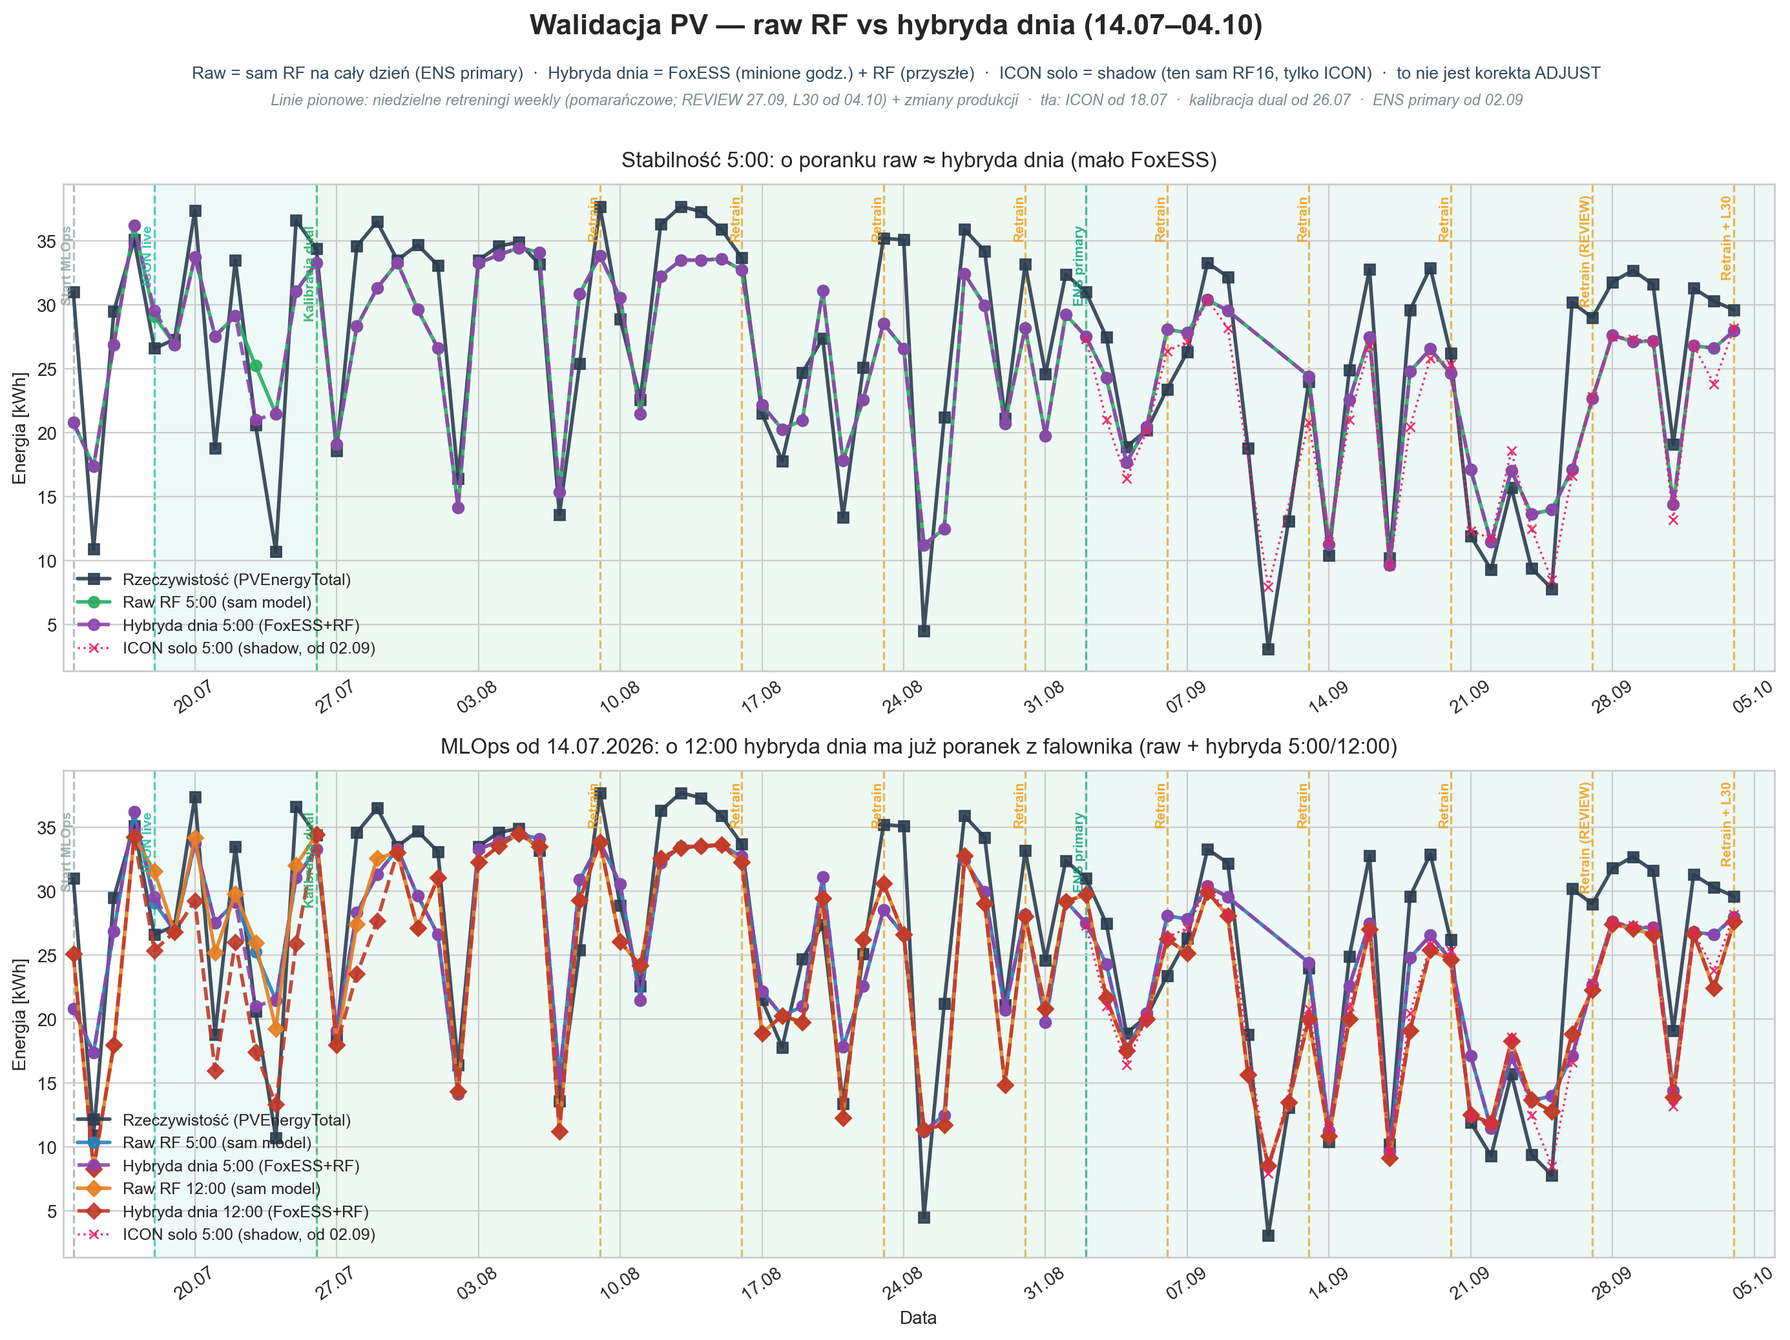
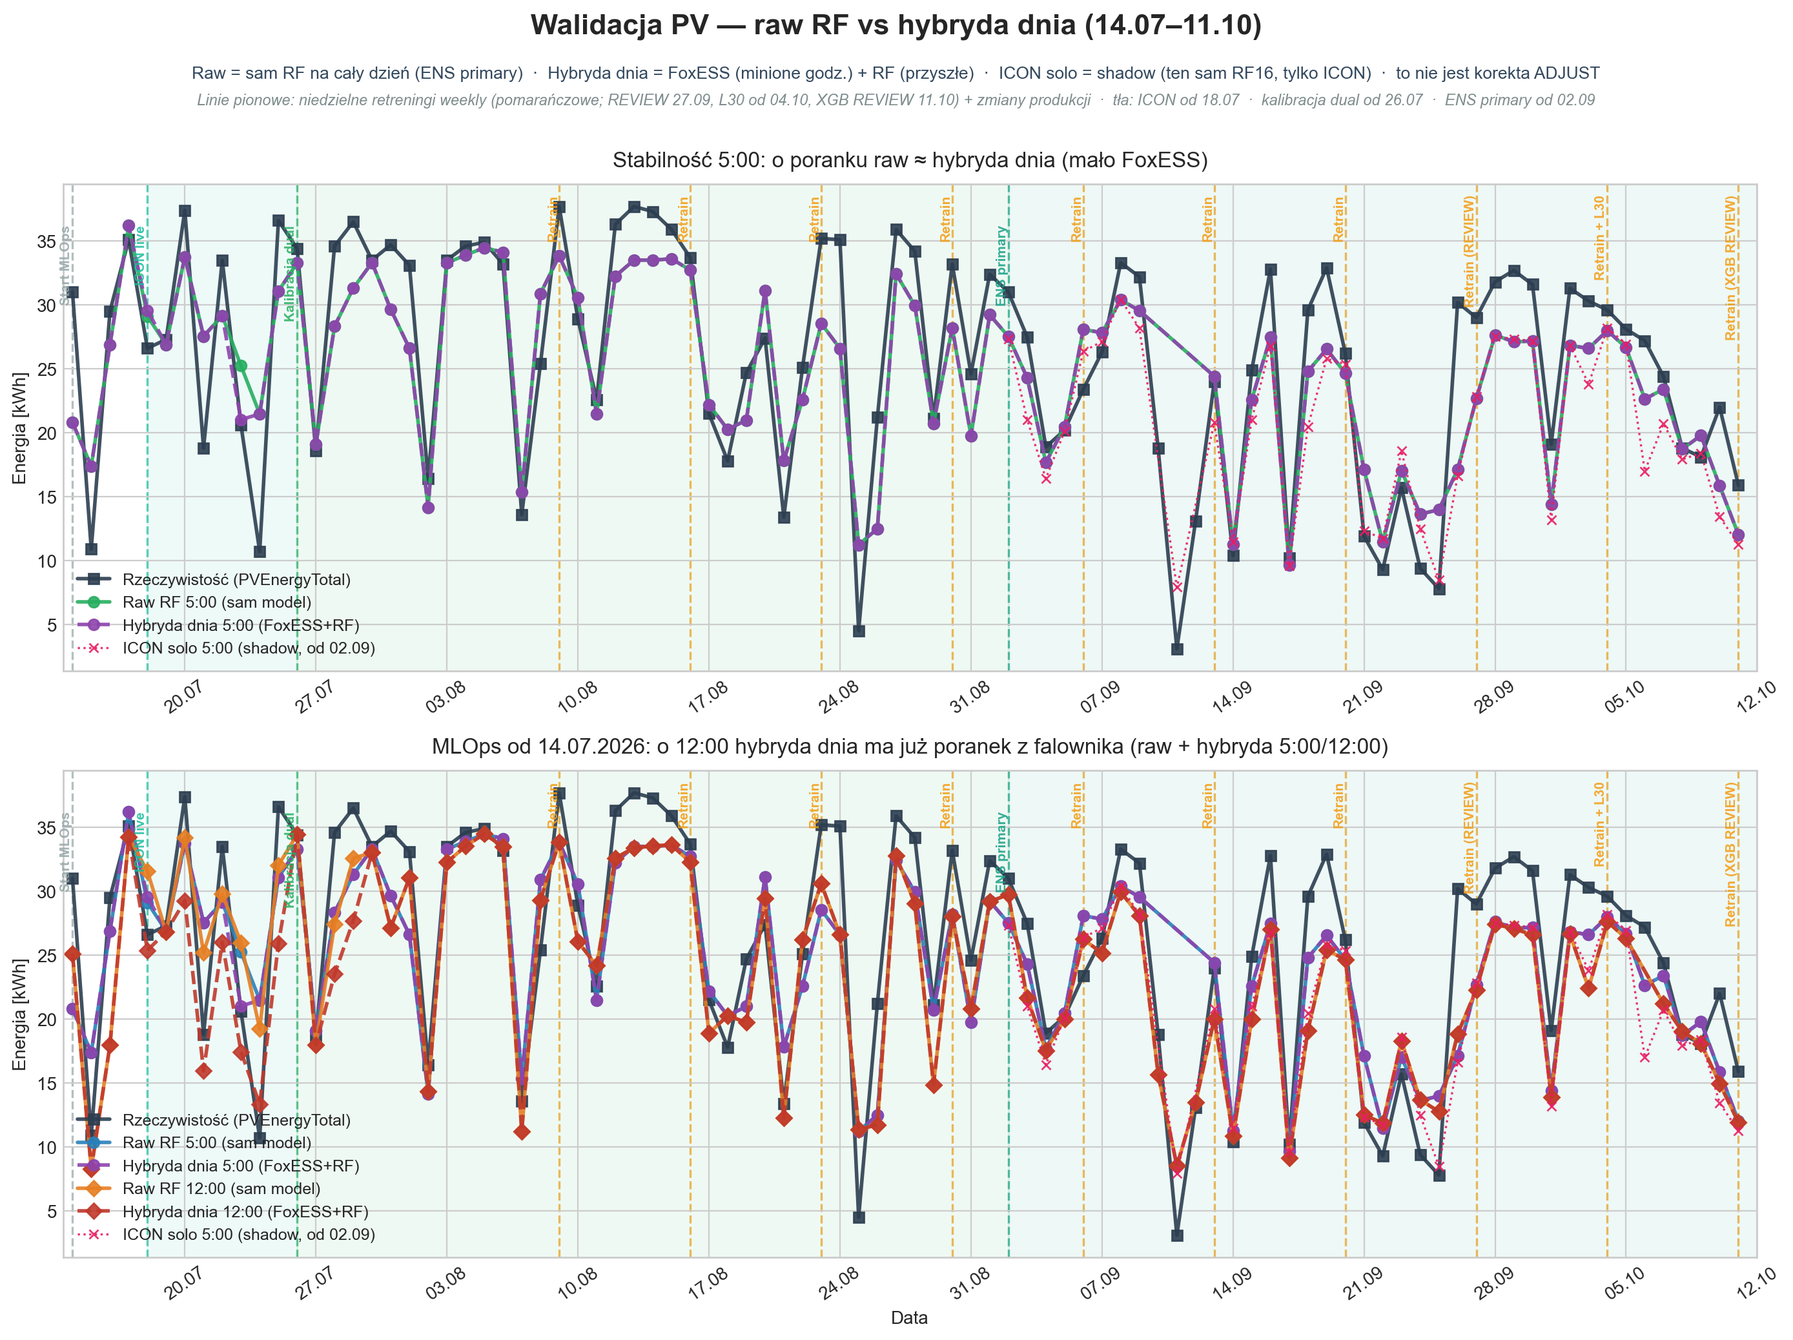
docs(ml): walidacja closeoutów do 11.10 + XGB REVIEW

diff --git a/scripts/plots/build_weekly_model_weather_review.py b/scripts/plots/build_weekly_model_weather_review.py
@@ -210,7 +210,7 @@ def build_markdown(m: pd.DataFrame, *, generated: date) -> str:
     lines = [
         '# Review modeli × pogoda (closeouty)',
         '',
-        f'**Wygenerowano:** {generated.isoformat()} (sobotni przegląd przed retreningiem niedzielnym)  ',
+        f'**Wygenerowano:** {generated.isoformat()} (przegląd modeli × pogoda)  ',
         f'**Zakres closeoutów:** {m["target_day"].min().date()} → {last_day.date()} (**{n_days}** dni)  ',
         '**Metryka:** |APE| % = |Fox − prognoza| / Fox × 100 · pogoda: średnie cloud **6–20** (ICON w DB)  ',
         '**Nie w tabeli:** UKMO solo / oneshot ½ — tylko w notatkach dnia (`oneshot_rf_icon_vs_ukmo.py`).  ',
@@ -301,10 +301,17 @@ def main() -> None:
 
         df = load_july_validation(Path(args.input))
         fig = ROOT / 'reports/figures/july_validation_plot.png'
-        summary = ROOT / 'docs/images/ml/july_validation_summary.md'
+        md = build_july_error_summary(df, db_path=Path(args.db))
         build_july_plot(df, fig)
-        summary.write_text(build_july_error_summary(df, db_path=Path(args.db)), encoding='utf-8')
-        print(f'✓ odświeżono {fig.name} + {summary.name}')
+        for summary in (
+            ROOT / 'docs/images/ml/july_validation_summary.md',
+            ROOT / 'reports/figures/july_validation_summary.md',
+        ):
+            summary.parent.mkdir(parents=True, exist_ok=True)
+            summary.write_text(md, encoding='utf-8')
+        docs_fig = ROOT / 'docs/images/ml/july_validation_plot.png'
+        docs_fig.write_bytes(fig.read_bytes())
+        print(f'✓ odświeżono {fig.name} + july_validation_summary.md (+ kopia docs/images/ml)')
 
 
 if __name__ == '__main__':

diff --git a/scripts/plots/plot_production_validation.py b/scripts/plots/plot_production_validation.py
@@ -61,6 +61,7 @@ MILESTONES = [
     {'date': '2026-09-20', 'label': 'Retrain', 'color': '#F39C12', 'type': 'retrain'},
     {'date': '2026-09-27', 'label': 'Retrain (REVIEW)', 'color': '#F39C12', 'type': 'retrain'},
     {'date': '2026-10-04', 'label': 'Retrain + L30', 'color': '#F39C12', 'type': 'retrain'},
+    {'date': '2026-10-11', 'label': 'Retrain (XGB REVIEW)', 'color': '#F39C12', 'type': 'retrain'},
 ]
 
 ENS_PRIMARY_START = '2026-09-02'
@@ -189,7 +190,7 @@ def build_plot(df: pd.DataFrame, output: Path, *, long_start: str) -> None:
     )
     fig.text(
         0.5, 0.935,
-        'Linie pionowe: niedzielne retreningi weekly (pomarańczowe; REVIEW 27.09, L30 od 04.10) + zmiany produkcji  ·  '
+        'Linie pionowe: niedzielne retreningi weekly (pomarańczowe; REVIEW 27.09, L30 od 04.10, XGB REVIEW 11.10) + zmiany produkcji  ·  '
         'tła: ICON od 18.07  ·  kalibracja dual od 26.07  ·  ENS primary od 02.09',
         ha='center', va='top', fontsize=8.5, color='#7F8C8D', style='italic',
     )

diff --git a/scripts/plots/plot_july_validation.py b/scripts/plots/plot_july_validation.py
@@ -633,7 +633,8 @@ def build_july_error_summary(
         '- **`production_validation_plot.png`:** góra = tylko **5:00** (raw ≈ hybryda, mało FoxESS). '
         'Dół = 5:00 i 12:00 razem. Tło od **02.09** = **ENS (ICON+UKMO)**. '
         'Pomarańczowe linie pionowe = niedzielny weekly retrening (04:30); od **27.09** opis „REVIEW” '
-        '(gate Δ MAE > +0,02), od **04.10** „+ L30” (dual report: shuffle + chronologiczny holdout 30 dni) — '
+        '(gate Δ MAE > +0,02), od **04.10** „+ L30” (dual report: shuffle + chronologiczny holdout 30 dni), '
+        '**11.10** „XGB REVIEW” (RF/CS4 ACCEPT) — '
         '`docs/NOTATKA_RETRENINGI_I_WDROZENIA.md`, `docs/NOTATKA_GATE_DUAL_L30.md`.'
     )
     lines.append(

diff --git a/docs/images/ml/july_validation_summary.md b/docs/images/ml/july_validation_summary.md
@@ -6,14 +6,14 @@ Metryka: **|APE| %** = `|actual − prognoza| / actual × 100`. Pogoda: średnie
 
 | Typ dnia (cloud) | n | MAPE raw 5:00 | MAPE raw 12:00 | Dni |
 |---|---:|---:|---:|---|
-| słoneczny / mało chmur | 19 | 8.7% | 9.6% | 20.07, 26.07, 30.07, 04.08, 05.08, 06.08, 09.08, 12.08, 13.08, 14.08, 15.08, 27.08, 08.09, 09.09, 28.09, 29.09, 30.09, 02.10, 03.10 |
-| mieszany | 25 | 14.1% | 15.8% | 16.07, 17.07, 25.07, 28.07, 29.07, 31.07, 03.08, 08.08, 16.08, 20.08, 22.08, 23.08, 24.08, 28.08, 29.08, 30.08, 01.09, 02.09, 06.09, 15.09, 16.09, 19.09, 26.09, 27.09, 04.10 |
-| pochmurny / deszczowy | 39 | 25.2% | 26.3% | 14.07, 15.07, 18.07, 19.07, 21.07, 22.07, 23.07, 24.07, 27.07, 01.08, 02.08, 07.08, 10.08, 11.08, 17.08, 18.08, 19.08, 21.08, 25.08, 26.08, 31.08, 03.09, 04.09, 05.09, 07.09, 10.09, 11.09, 12.09, 13.09, 14.09, 17.09, 18.09, 20.09, 21.09, 22.09, 23.09, 24.09, 25.09, 01.10 |
+| słoneczny / mało chmur | 20 | 8.5% | 9.4% | 20.07, 26.07, 30.07, 04.08, 05.08, 06.08, 09.08, 12.08, 13.08, 14.08, 15.08, 27.08, 08.09, 09.09, 28.09, 29.09, 30.09, 02.10, 03.10, 05.10 |
+| mieszany | 27 | 13.8% | 15.7% | 16.07, 17.07, 25.07, 28.07, 29.07, 31.07, 03.08, 08.08, 16.08, 20.08, 22.08, 23.08, 24.08, 28.08, 29.08, 30.08, 01.09, 02.09, 06.09, 15.09, 16.09, 19.09, 26.09, 27.09, 04.10, 06.10, 07.10 |
+| pochmurny / deszczowy | 43 | 24.3% | 25.2% | 14.07, 15.07, 18.07, 19.07, 21.07, 22.07, 23.07, 24.07, 27.07, 01.08, 02.08, 07.08, 10.08, 11.08, 17.08, 18.08, 19.08, 21.08, 25.08, 26.08, 31.08, 03.09, 04.09, 05.09, 07.09, 10.09, 11.09, 12.09, 13.09, 14.09, 17.09, 18.09, 20.09, 21.09, 22.09, 23.09, 24.09, 25.09, 01.10, 08.10, 09.10, 10.10, 11.10 |
 
-- **Najtrafniejszy raw 5:00:** 30.07 (0.6% · słoneczny / mało chmur, cloud~31%, actual 33.5 kWh), 03.08 (0.7% · mieszany, cloud~48%, actual 33.5 kWh), 05.08 (1.2% · słoneczny / mało chmur, cloud~9%, actual 34.9 kWh)
+- **Najtrafniejszy raw 5:00:** 08.10 (0.4% · pochmurny / deszczowy, cloud~77%, actual 18.8 kWh), 30.07 (0.6% · słoneczny / mało chmur, cloud~31%, actual 33.5 kWh), 03.08 (0.7% · mieszany, cloud~48%, actual 33.5 kWh)
 - **Najgorszy raw 5:00:** 25.08 (149.8% · pochmurny / deszczowy, cloud~100%, actual 4.5 kWh), 24.07 (100.7% · pochmurny / deszczowy, cloud~86%, actual 10.7 kWh), 25.09 (79.2% · pochmurny / deszczowy, cloud~89%, actual 7.8 kWh)
 - **Najgorszy raw 12:00:** 11.09 (174.8% · pochmurny / deszczowy, actual 3.1 kWh), 25.08 (152.7% · pochmurny / deszczowy, actual 4.5 kWh), 24.07 (79.7% · pochmurny / deszczowy, actual 10.7 kWh)
-- **Rekord |APE| (cała seria 14.07–04.10):** **11.09** raw 12:00 **174.8%** (Fox **3.1** kWh vs prognoza midday **8.5** kWh) — wyżej niż dotychczasowy outlier **25.08** (152,7% midday). Accu reżim **CS4** OK; miss = poziom kWh, nie klasyfikacja.
+- **Rekord |APE| (cała seria 14.07–11.10):** **11.09** raw 12:00 **174.8%** (Fox **3.1** kWh vs prognoza midday **8.5** kWh) — wyżej niż dotychczasowy outlier **25.08** (152,7% midday). Accu reżim **CS4** OK; miss = poziom kWh, nie klasyfikacja.
 
 - **Wzorzec:** na dniach **jasnych / wysokiej produkcji** raw bywa lekko **za niski** (NWP za chmurny vs Accu) — błąd umiarkowany w %, duży w kWh. Na dniach **słabych / burzowych** raw często **zawyża** — wtedy |APE| % eksploduje przy niskim Fox (**11.09** rekord **174,8%**; wcześniej klasa **25.08** ~153%). Od **02.09** primary to **ENS (ICON+UKMO)** — ten sam RF16, inna pogoda.
 
@@ -32,15 +32,16 @@ Raw 5:00 vs Fox, tygodnie pn–nd (od 03.08, min. 5 dni). **WAPE** = Σ|pred−F
 | 14.09–20.09 | 7 | 23.9 | 13.0% | -12.0% | -13.9% (n=5) | 19% | 17.2% (n=7) | -15.9% | **WATCH** · WAPE OK · bias WATCH · dzień OK |
 | 21.09–27.09 | 7 | 16.2 | 34.0% | -0.3% | -32.8% (n=2) | 79% | 25.8% (n=7) | -9.0% | **ALARM** · WAPE ALARM · bias OK · dzień ALARM |
 | 28.09–04.10 | 7 | 29.5 | 13.9% | -13.9% | -12.8% (n=6) | 25% | 15.6% (n=7) | -15.6% | **ALARM** · WAPE OK · bias ALARM · dzień OK |
+| 05.10–11.10 | 7 | 22.1 | 12.1% | -10.0% | -12.9% (n=4) | 28% | 19.1% (n=7) | -18.7% | **WATCH** · WAPE OK · bias WATCH · dzień WATCH |
 
 #### ENS vs dual ICON — korekta o miks pogody
 
-Era ENS ma więcej dni pochmurnych (**55%** vs **35%** w erze dual), a na pochmurnych |APE| % jest zawyżone przez niski Fox — dlatego porównuj **te same typy dni** (różnica MAPE raw 5:00, ENS − dual): słoneczny / mało chmur: wyższy o 6.0 pp w erze ENS; mieszany: wyższy o 5.6 pp w erze ENS; pochmurny / deszczowy: niższy o 6.6 pp w erze ENS. Mała próba (n w komórkach) — to obserwacja, nie wniosek.
+Era ENS ma więcej dni pochmurnych (**55%** vs **35%** w erze dual), a na pochmurnych |APE| % jest zawyżone przez niski Fox — dlatego porównuj **te same typy dni** (różnica MAPE raw 5:00, ENS − dual): słoneczny / mało chmur: wyższy o 5.1 pp w erze ENS; mieszany: wyższy o 4.0 pp w erze ENS; pochmurny / deszczowy: niższy o 7.4 pp w erze ENS. Mała próba (n w komórkach) — to obserwacja, nie wniosek.
 
 | Era | słoneczny / mało chmur (n · MAPE 5:00) | mieszany (n · MAPE 5:00) | pochmurny / deszczowy (n · MAPE 5:00) | udział dni pochmurnych |
 |---|---:|---:|---:|---:|
 | dual ICON 27.07–01.09 | 10 · 6.5% | 14 · 12.7% | 13 · 25.8% | 35% |
-| ENS od 02.09 | 7 · 12.5% | 8 · 18.3% | 18 · 19.1% | 55% |
+| ENS od 02.09 | 8 · 11.6% | 10 · 16.7% | 22 · 18.4% | 55% |
 
 #### Kiedy hybryda dnia pomaga, a kiedy szkodzi
 
@@ -48,7 +49,7 @@ Porównanie **midday (12:00)**: hybryda = FoxESS na minione godziny + RF na resz
 
 - **Hybryda pomaga (12:00):** 18.07 (↓14.1 pp, pochmurny / deszczowy); 21.07 (↓18.9 pp, pochmurny / deszczowy); 23.07 (↓10.8 pp, pochmurny / deszczowy); 24.07 (↓55.0 pp, pochmurny / deszczowy)
 - **Hybryda szkodzi (12:00):** 20.07 (↑13.2 pp, słoneczny / mało chmur); 22.07 (↑11.2 pp, pochmurny / deszczowy); 25.07 (↑16.7 pp, mieszany); 28.07 (↑11.3 pp, mieszany); 29.07 (↑13.4 pp, mieszany)
-- **Remis / szum (<1 pp):** 14.07, 15.07, 16.07, 17.07, 19.07, 26.07, 27.07, 30.07, 31.07, 01.08, 02.08, 03.08, 04.08, 05.08, 06.08, 07.08, 08.08, 09.08, 10.08, 11.08, 12.08, 13.08, 14.08, 15.08, 16.08, 17.08, 18.08, 19.08, 20.08, 21.08, 22.08, 23.08, 24.08, 25.08, 26.08, 27.08, 28.08, 29.08, 30.08, 31.08, 01.09, 02.09, 03.09, 04.09, 05.09, 06.09, 07.09, 08.09, 09.09, 10.09, 11.09, 12.09, 13.09, 14.09, 15.09, 16.09, 17.09, 18.09, 19.09, 20.09, 21.09, 22.09, 23.09, 24.09, 25.09, 26.09, 27.09, 28.09, 29.09, 30.09, 01.10, 02.10, 03.10, 04.10
+- **Remis / szum (<1 pp):** 14.07, 15.07, 16.07, 17.07, 19.07, 26.07, 27.07, 30.07, 31.07, 01.08, 02.08, 03.08, 04.08, 05.08, 06.08, 07.08, 08.08, 09.08, 10.08, 11.08, 12.08, 13.08, 14.08, 15.08, 16.08, 17.08, 18.08, 19.08, 20.08, 21.08, 22.08, 23.08, 24.08, 25.08, 26.08, 27.08, 28.08, 29.08, 30.08, 31.08, 01.09, 02.09, 03.09, 04.09, 05.09, 06.09, 07.09, 08.09, 09.09, 10.09, 11.09, 12.09, 13.09, 14.09, 15.09, 16.09, 17.09, 18.09, 19.09, 20.09, 21.09, 22.09, 23.09, 24.09, 25.09, 26.09, 27.09, 28.09, 29.09, 30.09, 01.10, 02.10, 03.10, 04.10, 05.10, 07.10, 08.10, 09.10, 10.10, 11.10
 
 - **O 5:00:** hybryda ≈ raw (pomaga 1 dni / szkodzi 1) — przed wschodem prawie nie ma FoxESS do podmiany.
 
@@ -67,21 +68,21 @@ Podział według **zmian logiki / targetu / cech** (nie każdy niedzielny odświ
 | 14.07–18.07 | przed targetem PVE (skala mieszana; GPS/ICON 17.07) | 5 | 22.8% | 20.6% |
 | 19.07–26.07 | po PVE 18.07 ~16:32 — przed dual 26.07 | 8 | 26.5% | 21.7% |
 | 27.07–01.09 | era dual ICON primary (po 26.07; weekly = odświeżenie wag) | 37 | 15.6% | 15.8% |
-| 02.09–04.10 | era ENS primary (ICON+UKMO; gate 01.09, daily od 02.09) | 33 | 17.4% | 22.4% |
-| 19.07–04.10 | **era PVE łącznie** (bez 14–18) | 78 | **17.5%** | **19.2%** |
+| 02.09–11.10 | era ENS primary (ICON+UKMO; gate 01.09, daily od 02.09) | 40 | 16.5% | 21.0% |
+| 19.07–11.10 | **era PVE łącznie** (bez 14–18) | 85 | **17.1%** | **18.8%** |
 
-_Zakres całość: 14.07–04.10 (83 closeoutów) · MAPE raw 5:00 = **17.8%** · MAPE raw 12:00 = **19.3%**._
+_Zakres całość: 14.07–11.10 (90 closeoutów) · MAPE raw 5:00 = **17.4%** · MAPE raw 12:00 = **18.9%**._
 
-#### Notatka odświeżenia 05.10.2026
+#### Notatka odświeżenia 11.10.2026
 
-- Zakres closeoutów: **14.07–04.10** (n=83). PNG + ten plik wygenerowane **05.10**.
+- Zakres closeoutów: **14.07–11.10** (n=90). PNG + ten plik wygenerowane **11.10**.
 - Linie na wykresie: **ICON** od **18.07** (wdrożenie 17.07 wieczór) · **kalibracja dual** od **26.07** · **ENS primary** od **02.09**.
-- **ENS primary** od **02.09** (gate 01.09, pierwszy daily 5:00) — n=33 closeoutów · MAPE raw **17.4% / 22.4%**.
+- **ENS primary** od **02.09** (gate 01.09, pierwszy daily 5:00) — n=40 closeoutów · MAPE raw **16.5% / 21.0%**.
 - Era dual ICON **27.07–01.09** (n=37): MAPE raw **15.6% / 15.8%**.
-- Ostatnie closeouty (actual · |APE| raw 5:00): 27.09 **29.0** (raw 5:00 21.9%), 28.09 **31.8** (raw 5:00 13.1%), 29.09 **32.7** (raw 5:00 17.1%), 30.09 **31.6** (raw 5:00 14.0%), 01.10 **19.1** (raw 5:00 24.6%), 02.10 **31.3** (raw 5:00 14.3%), 03.10 **30.3** (raw 5:00 12.2%), 04.10 **29.6** (raw 5:00 5.4%).
+- Ostatnie closeouty (actual · |APE| raw 5:00): 04.10 **29.6** (raw 5:00 5.4%), 05.10 **28.1** (raw 5:00 5.1%), 06.10 **27.2** (raw 5:00 16.8%), 07.10 **24.4** (raw 5:00 4.1%), 08.10 **18.8** (raw 5:00 0.4%), 09.10 **18.1** (raw 5:00 9.3%), 10.10 **22.0** (raw 5:00 28.0%), 11.10 **15.9** (raw 5:00 24.3%).
 
 #### Jak czytać PNG
 
 - **`july_validation_plot.png`:** góra = kWh dnia (czarne = FoxESS; niebieski = raw 5:00; pomarańczowy = raw 12:00; fiolet/czerwień = hybryda). Dół = **|APE| %** — wysoki słupek to dzień, w którym model był daleko od faktu (zwykle słaby / deszczowy).
-- **`production_validation_plot.png`:** góra = tylko **5:00** (raw ≈ hybryda, mało FoxESS). Dół = 5:00 i 12:00 razem. Tło od **02.09** = **ENS (ICON+UKMO)**. Pomarańczowe linie pionowe = niedzielny weekly retrening (04:30); od **27.09** opis „REVIEW” (gate Δ MAE > +0,02), od **04.10** „+ L30” (dual report: shuffle + chronologiczny holdout 30 dni) — `docs/NOTATKA_RETRENINGI_I_WDROZENIA.md`, `docs/NOTATKA_GATE_DUAL_L30.md`.
+- **`production_validation_plot.png`:** góra = tylko **5:00** (raw ≈ hybryda, mało FoxESS). Dół = 5:00 i 12:00 razem. Tło od **02.09** = **ENS (ICON+UKMO)**. Pomarańczowe linie pionowe = niedzielny weekly retrening (04:30); od **27.09** opis „REVIEW” (gate Δ MAE > +0,02), od **04.10** „+ L30” (dual report: shuffle + chronologiczny holdout 30 dni), **11.10** „XGB REVIEW” (RF/CS4 ACCEPT) — `docs/NOTATKA_RETRENINGI_I_WDROZENIA.md`, `docs/NOTATKA_GATE_DUAL_L30.md`.
 - Dni **bez Porannej @05** (launchd / Mac spał) nie mają niebieskiej kropki 5:00 — oceniaj po **pomarańczowej** (12:00) lub **Popołudniowej** w app. **|APE| %** na bardzo niskim Fox (2–5 kWh) bywa ogromny przy błędzie kilku kWh — **11.09** to **najwyższy słupek |APE| w całej serii** (**174,8%** raw 12:00; wcześniejszy rekord **25.08** ~153%). Kontrast **12.09**: Fox **13,1** vs midday **13,47** (**−2,8%**).

diff --git a/docs/images/ml/weekly_model_weather_review.md b/docs/images/ml/weekly_model_weather_review.md
@@ -1,7 +1,7 @@
 # Review modeli × pogoda (closeouty)
 
-**Wygenerowano:** 2026-10-03 (sobotni przegląd przed retreningiem niedzielnym)  
-**Zakres closeoutów:** 2026-07-14 → 2026-10-02 (**81** dni)  
+**Wygenerowano:** 2026-10-11 (odświeżenie po closeoucie 11.10 i retrenie 04:30)  
+**Zakres closeoutów:** 2026-07-14 → 2026-10-11 (**90** dni)  
 **Metryka:** |APE| % = |Fox − prognoza| / Fox × 100 · pogoda: średnie cloud **6–20** (ICON w DB)  
 **Nie w tabeli:** UKMO solo / oneshot ½ — tylko w notatkach dnia (`oneshot_rf_icon_vs_ukmo.py`).  
 
@@ -9,46 +9,47 @@
 
 ---
 
-### Decyzja przed niedzielą (skrót)
+### Skrót (po retrenie 11.10)
 
-- **Pochmurne/deszczowe** (n=39): CS4 @05 **22.6%** vs ENS **25.2%** → rozważ routing / shadow CS4 (paper Accu).
-- **Słoneczne** (n=18): ENS @05 średnio **8.5%** — nie przełączaj na CS4 globalnie.
-- **Peak @16:** XGB **11.4%** vs ENS @12 **19.4%** — shadow XGB warto monitorować; retrening niedzielny i tak odświeża wszystkie trzy jobliby.
+- **Pochmurne/deszczowe** (n=43): CS4 @05 **21.7%** vs ENS **24.3%** → rozważ routing / shadow CS4 (paper Accu).
+- **Słoneczne** (n=20): ENS @05 średnio **8.5%** — nie przełączaj na CS4 globalnie.
+- **Retrain 11.10:** RF/CS4 **ACCEPT**, XGB **REVIEW** (Δ shuffle +0,027) — primary bez zmian.
+- **Peak @16:** XGB **10.8%** vs ENS @12 **18.9%** — shadow XGB warto monitorować; retrening niedzielny i tak odświeża wszystkie trzy jobliby.
 
 #### Cała seria (od lipca)
 
 | Typ dnia | n | ENS @05 | ENS @12 | ICON ld @05 | ICON ld @12 | CS4 ld @05 | CS4 ld @12 | CS4 peak | ICON peak | XGB @05 | XGB peak |
 |---|---:|---:|---:|---:|---:|---:|---:|---:|---:|---:|---:|
-| pochmurny / deszczowy | 39 | 25.2% | 26.3% | 23.7% | 24.6% | 22.6% | 25.2% | 14.4% | 15.2% | 23.2% | 13.8% |
-| mieszany | 24 | 14.4% | 16.1% | 20.9% | 20.1% | 16.5% | 17.4% | 9.2% | 5.8% | 16.8% | 9.9% |
-| słoneczny / mało chmur | 18 | 8.5% | 8.7% | 13.2% | 14.1% | 10.0% | 10.7% | 8.1% | 5.8% | 8.2% | 8.8% |
+| pochmurny / deszczowy | 43 | 24.3% | 25.2% | 22.7% | 23.7% | 21.7% | 24.3% | 13.2% | 13.0% | 22.8% | 12.5% |
+| mieszany | 27 | 13.8% | 15.7% | 20.4% | 18.1% | 16.8% | 17.0% | 9.1% | 6.3% | 17.5% | 9.7% |
+| słoneczny / mało chmur | 20 | 8.5% | 9.4% | 13.1% | 14.5% | 10.8% | 11.6% | 7.9% | 6.2% | 9.2% | 8.7% |
 
 #### Ostatnie 28 dni
 
 | Typ dnia | n | ENS @05 | ENS @12 | ICON ld @05 | ICON ld @12 | CS4 ld @05 | CS4 ld @12 | CS4 peak | ICON peak | XGB @05 | XGB peak |
 |---|---:|---:|---:|---:|---:|---:|---:|---:|---:|---:|---:|
-| pochmurny / deszczowy | 16 | 20.7% | 28.6% | 24.5% | 25.9% | 23.5% | 26.3% | 15.0% | 16.3% | 22.5% | 12.6% |
-| mieszany | 6 | 21.7% | 22.2% | 22.4% | 22.5% | 25.6% | 26.0% | 6.0% | 6.3% | 25.2% | 6.9% |
-| słoneczny / mało chmur | 6 | 12.6% | 14.1% | 13.2% | 14.1% | 14.0% | 15.4% | 5.4% | 5.8% | 13.8% | 7.1% |
+| pochmurny / deszczowy | 15 | 21.6% | 21.1% | 17.3% | 18.9% | 16.6% | 19.4% | 5.4% | 5.9% | 17.5% | 5.0% |
+| mieszany | 8 | 17.0% | 20.1% | 22.4% | 22.3% | 24.2% | 25.5% | 6.9% | 6.9% | 24.7% | 7.9% |
+| słoneczny / mało chmur | 6 | 12.6% | 15.7% | 13.9% | 15.4% | 15.9% | 17.7% | 6.2% | 6.7% | 15.6% | 7.8% |
 
 #### Ostatnie 7 dni
 
 | Typ dnia | n | ENS @05 | ENS @12 | ICON ld @05 | ICON ld @12 | CS4 ld @05 | CS4 ld @12 | CS4 peak | ICON peak | XGB @05 | XGB peak |
 |---|---:|---:|---:|---:|---:|---:|---:|---:|---:|---:|---:|
-| mieszany | 2 | 32.6% | 30.4% | 33.1% | 35.3% | 34.5% | 38.1% | 5.7% | 5.9% | 39.2% | 6.4% |
-| słoneczny / mało chmur | 4 | 14.6% | 15.4% | 14.5% | 15.2% | 15.6% | 17.2% | 5.8% | 6.4% | 14.8% | 7.6% |
-| pochmurny / deszczowy | 1 | 24.6% | 27.2% | 30.9% | 30.4% | 37.3% | 35.2% | 2.7% | 3.9% | 44.0% | 4.8% |
+| mieszany | 3 | 8.8% | 9.9% | 19.1% | 10.9% | 18.9% | 12.3% | 8.0% | 7.5% | 22.1% | 9.0% |
+| słoneczny / mało chmur | 1 | 5.1% | 6.4% | 4.1% | 5.9% | 5.7% | 7.2% | 7.2% | 7.3% | 7.8% | 7.7% |
+| pochmurny / deszczowy | 4 | 15.5% | 14.5% | 18.6% | 19.5% | 14.8% | 17.2% | 3.6% | 3.0% | 19.9% | 2.7% |
 
 #### Najniższy |APE| @05 (porównanie daily snapshotów)
 
 | Wariant | dni (wygrał @05) |
 |---:|---:|
-| ENS @05 | 38 |
-| XGB @05 | 22 |
-| CS4 ld @05 | 15 |
-| ICON ld @05 | 6 |
+| ENS @05 | 43 |
+| XGB @05 | 23 |
+| CS4 ld @05 | 17 |
+| ICON ld @05 | 7 |
 
-**Pochmurne / deszczowe:** ENS @05 **20×**, XGB @05 **10×**, CS4 ld @05 **7×**, ICON ld @05 **2×**
+**Pochmurne / deszczowe:** ENS @05 **22×**, XGB @05 **11×**, CS4 ld @05 **8×**, ICON ld @05 **2×**
 
 ---
 
